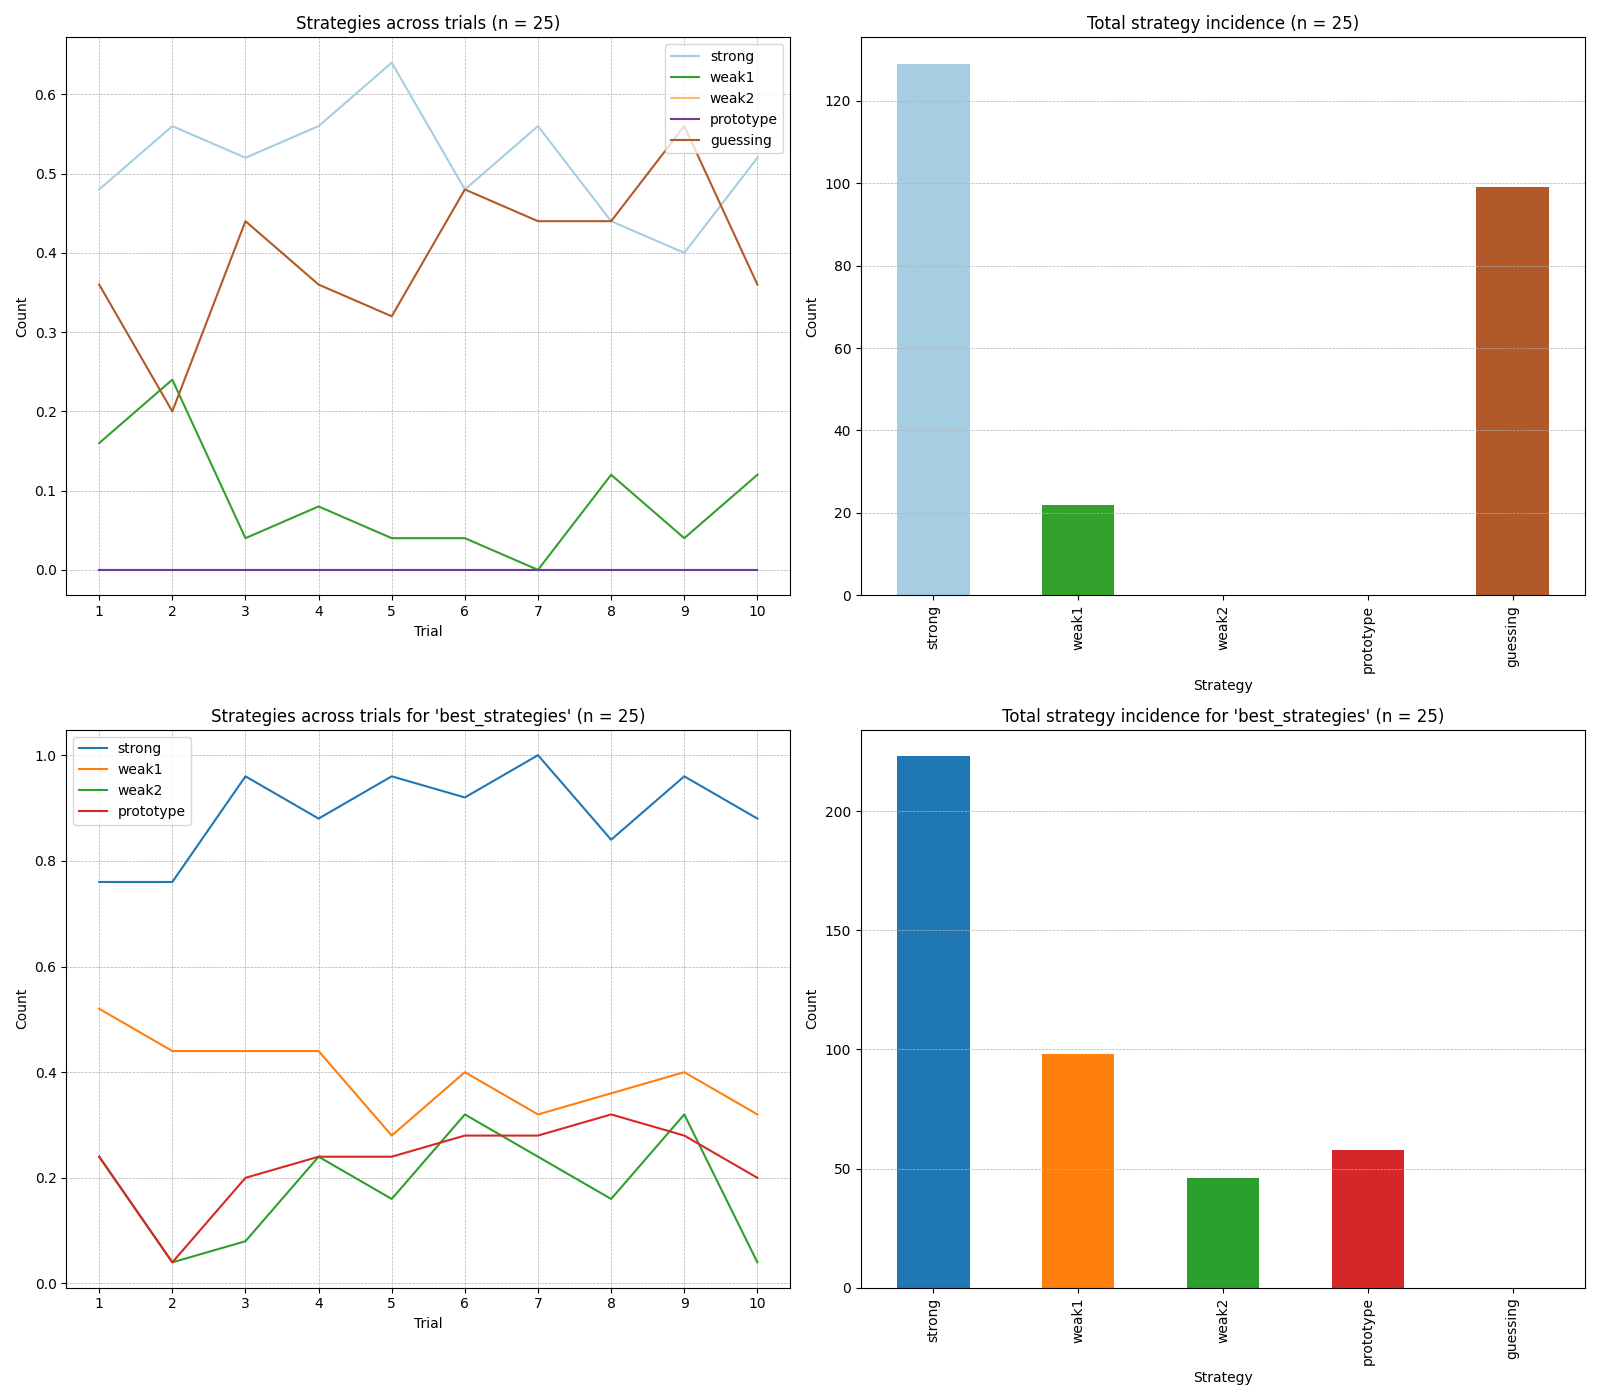
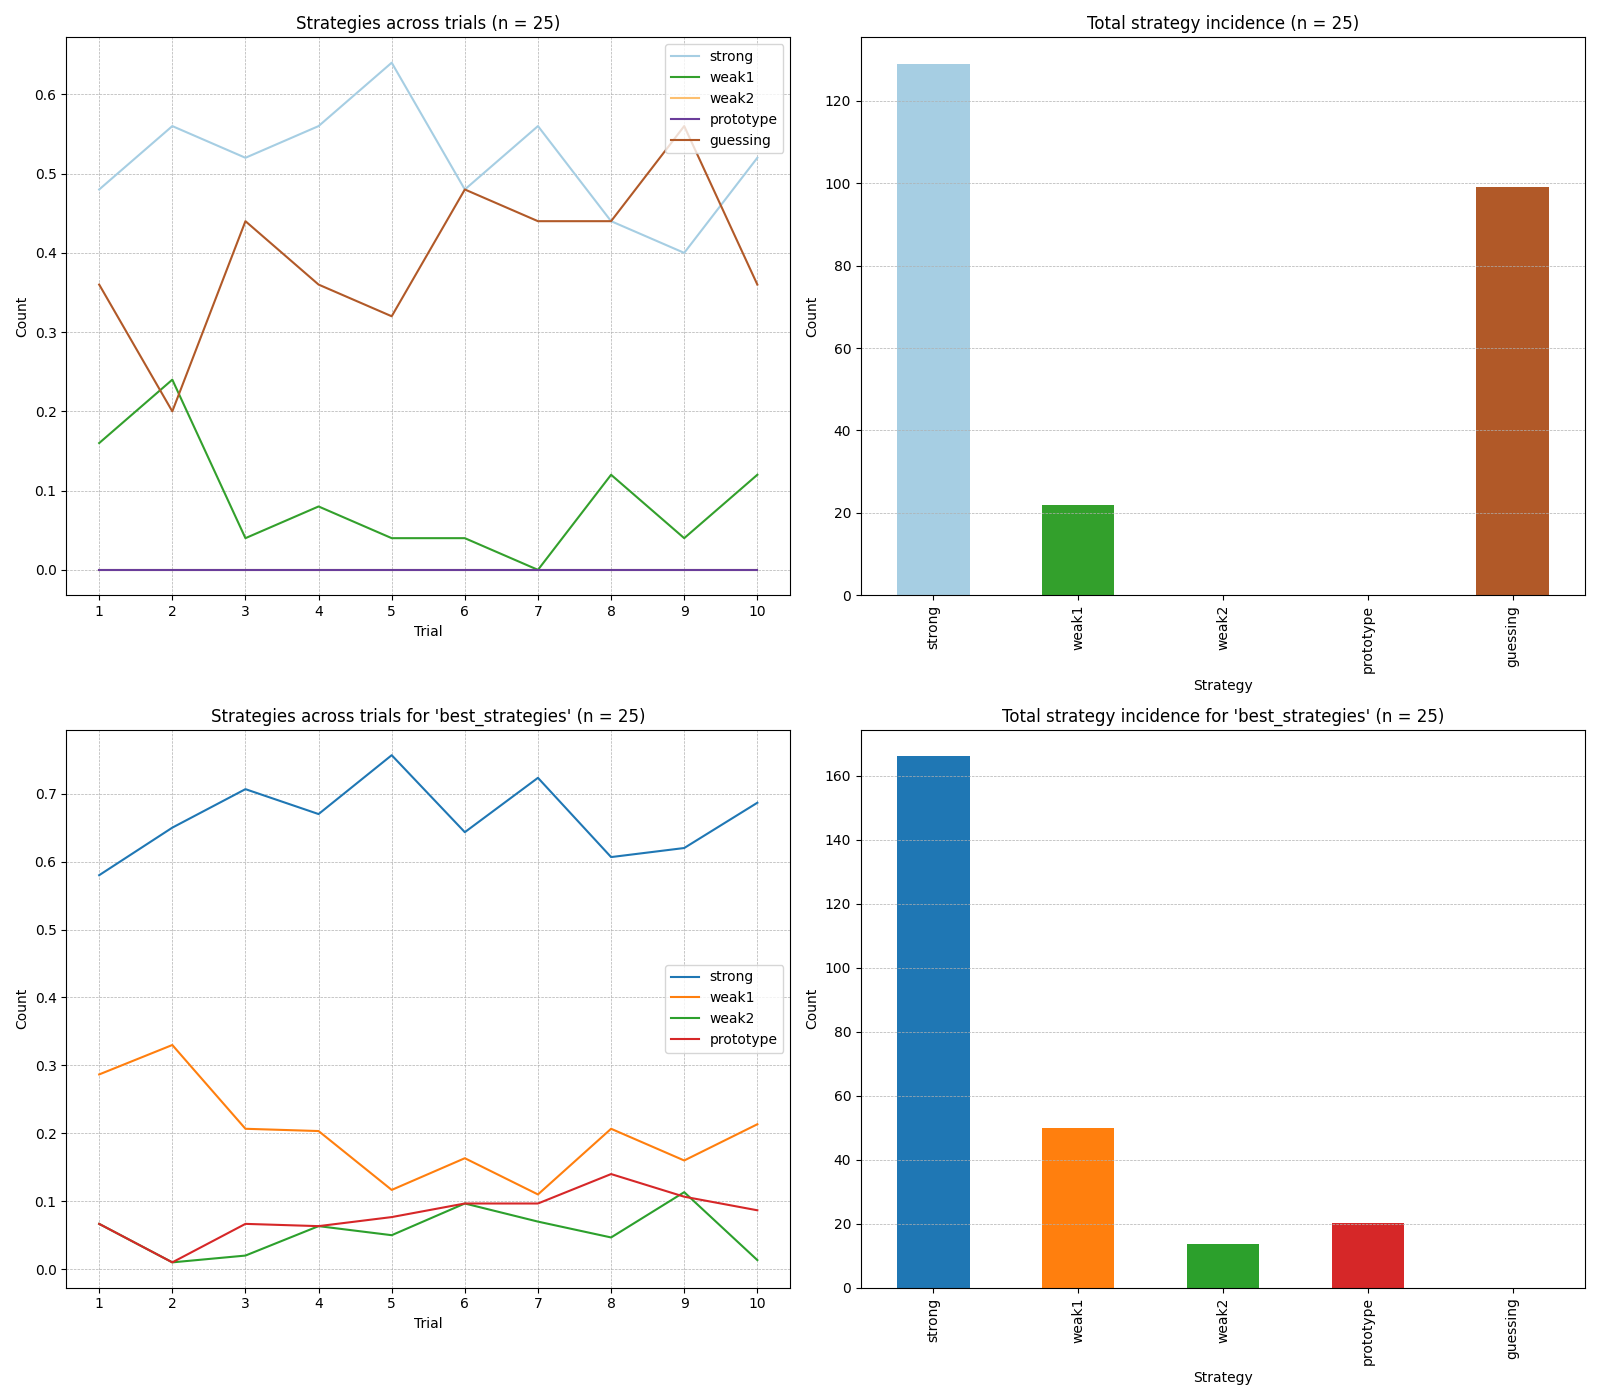
Make equally likely strategy counts per trial sum up to 1

diff --git a/plots/strategy_plot.py b/plots/strategy_plot.py
@@ -36,13 +36,15 @@ df['parsed_strategies'] = df['best_strategies'].apply(parse_strategies)
 # Count occurrences
 strategy_counts_per_trial = pd.DataFrame(index=np.arange(1, 11), columns=["strong", "weak1", "weak2", "prototype"]).fillna(0)
 
-# Iterate through the DataFrame and count occurrences
+# Iterate through the DataFrame and count occurrences. If ties, the sum of counts is 1
+# E.g., if there are 3 equally likely strategies per trial each gets a count of 0.333
 for index, row in df.iterrows():
     trial = row['trial']
     strategies = row['parsed_strategies']
+    increment_value = 1 / len(strategies)  # Each strategy gets an equal share of 1
     for strategy in strategies:
         if strategy in strategy_counts_per_trial.columns:
-            strategy_counts_per_trial.loc[trial, strategy] += 1
+            strategy_counts_per_trial.loc[trial, strategy] += increment_value
 
 
 fig, ax = plt.subplots(2, 2, figsize=(16, 14)) # Initialise figure
